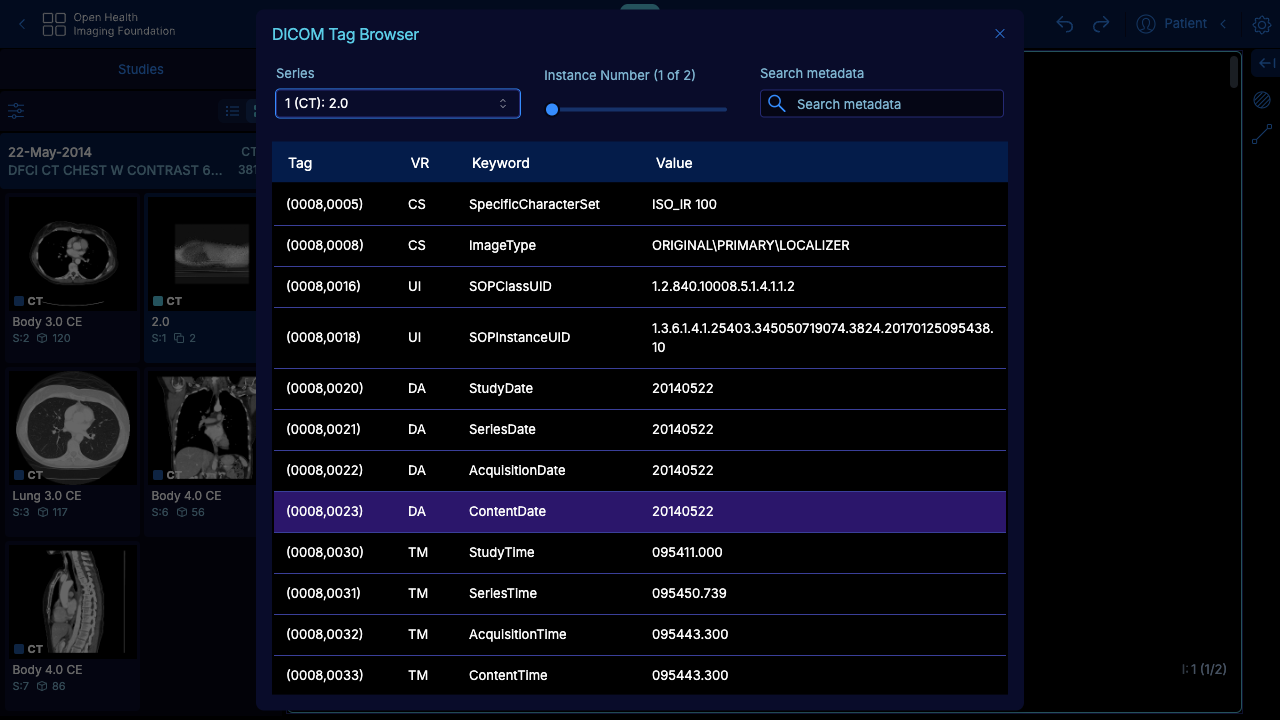
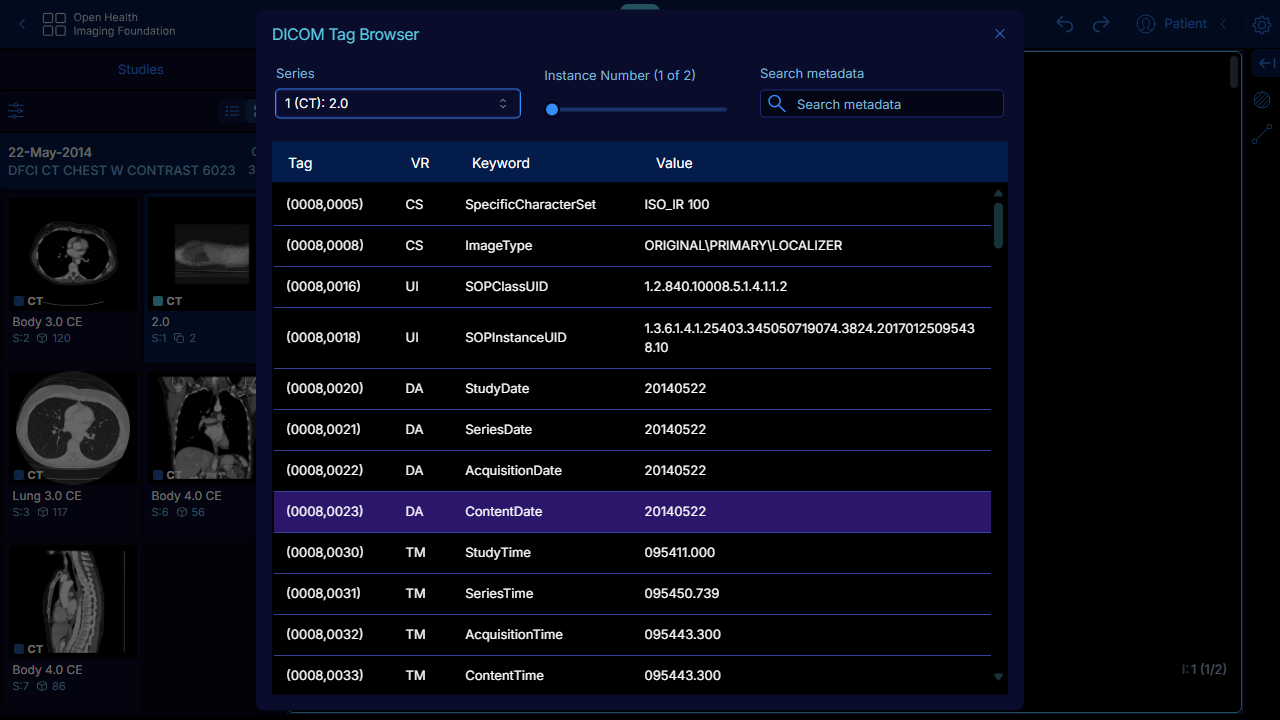
fix(UI): Restored the scroll bar OHIF L&F (#5202)

diff --git a/tests/Worklist.spec.ts b/tests/Worklist.spec.ts
@@ -1,0 +1,30 @@
+import { test } from 'playwright-test-coverage';
+import { checkForScreenshot, screenShotPaths } from './utils';
+
+test.beforeEach(async ({ page }) => {
+  await page.goto(`/?datasources=ohif`);
+  await page.waitForLoadState('domcontentloaded');
+  await page.waitForLoadState('networkidle');
+  await page.waitForTimeout(2000);
+});
+
+test('should render scroll bars with the correct look-and-feel', async ({ page }) => {
+  const studyRowHeader = await page.getByTestId(
+    '1.3.6.1.4.1.14519.5.2.1.5099.8010.217836670708542506360829799868'
+  );
+
+  await studyRowHeader.scrollIntoViewIfNeeded();
+  await studyRowHeader.click();
+
+  const expandedStudyRow = await page.getByTestId(
+    'studyRow-1.3.6.1.4.1.14519.5.2.1.5099.8010.217836670708542506360829799868'
+  );
+  await expandedStudyRow.scrollIntoViewIfNeeded();
+
+  await checkForScreenshot({
+    page,
+    locator: expandedStudyRow,
+    normalizedClip: { x: 0.97, y: 0.35, width: 0.03, height: 0.65 },
+    screenshotPath: screenShotPaths.workList.scrollBarRenderedProperly,
+  });
+});

diff --git a/tests/DicomTagBrowser.spec.ts b/tests/DicomTagBrowser.spec.ts
@@ -1,13 +1,11 @@
 import { test } from 'playwright-test-coverage';
 import { visitStudy, checkForScreenshot, screenShotPaths } from './utils';
 
-test.beforeEach(async ({ page }) => {
+test('should display the dicom tag browser', async ({ page }) => {
   const studyInstanceUID = '1.3.6.1.4.1.25403.345050719074.3824.20170125095438.5';
   const mode = 'viewer';
   await visitStudy(page, studyInstanceUID, mode, 2000);
-});
 
-test('should display the dicom tag browser', async ({ page }) => {
   await page.getByTestId('MoreTools-split-button-secondary').click();
   await page.getByTestId('TagBrowser').click();
   await checkForScreenshot(
@@ -15,4 +13,18 @@ test('should display the dicom tag browser', async ({ page }) => {
     page,
     screenShotPaths.dicomTagBrowser.dicomTagBrowserDisplayedCorrectly
   );
+});
+
+test('should render the scroll bar with the correct look-and-feel', async ({ page }) => {
+  const studyInstanceUID = '1.3.6.1.4.1.25403.345050719074.3824.20170125095438.5';
+  const mode = 'viewer';
+  await visitStudy(page, studyInstanceUID, mode, 2000);
+
+  await page.getByTestId('MoreTools-split-button-secondary').click();
+  await page.getByTestId('TagBrowser').click();
+  await checkForScreenshot({
+    page,
+    normalizedClip: { x: 0.77, y: 0.25, width: 0.03, height: 0.75 },
+    screenshotPath: screenShotPaths.dicomTagBrowser.scrollBarRenderedProperly,
+  });
 });

diff --git a/tests/utils/checkForScreenshot.ts b/tests/utils/checkForScreenshot.ts
@@ -15,19 +15,22 @@ type CheckForScreenshotProps = {
     width: number;
     height: number;
   };
+  fullPage?: boolean;
 };
 
 const _checkForScreenshot = async (props: CheckForScreenshotProps) => {
   const {
     page,
-    locator = page,
     screenshotPath,
     attempts = 10,
     delay = 500,
     maxDiffPixelRatio = 0.02,
     threshold = 0.05,
     normalizedClip,
+    fullPage = false,
   } = props;
+
+  let { locator = page } = props;
 
   await page.waitForLoadState('networkidle');
 
@@ -40,11 +43,16 @@ const _checkForScreenshot = async (props: CheckForScreenshotProps) => {
           boundingBox = { x: 0, y: 0, ...(await page.viewportSize()) };
         } else {
           boundingBox = await (locator as Locator).boundingBox();
+
+          // clip does not work for locator screen shots, so lets do some trickery
+          // set page as the locator here and below add the locator bounding box origin to the
+          // clip area
+          locator = page;
         }
 
         clip = {
-          x: normalizedClip.x * boundingBox.width,
-          y: normalizedClip.y * boundingBox.height,
+          x: boundingBox.x + normalizedClip.x * boundingBox.width,
+          y: boundingBox.y + normalizedClip.y * boundingBox.height,
           width: normalizedClip.width * boundingBox.width,
           height: normalizedClip.height * boundingBox.height,
         };
@@ -54,6 +62,7 @@ const _checkForScreenshot = async (props: CheckForScreenshotProps) => {
         maxDiffPixelRatio,
         threshold,
         clip,
+        fullPage,
       });
       return true;
     } catch (error) {

diff --git a/playwright.config.ts b/playwright.config.ts
@@ -24,6 +24,10 @@ export default defineConfig({
     video: 'on-first-retry',
     testIdAttribute: 'data-cy',
     actionTimeout: 10_000,
+    launchOptions: {
+      // do not hide the scrollbars so that we can assert their look-and-feel
+      ignoreDefaultArgs: ['--hide-scrollbars'],
+    },
   },
 
   projects: [

diff --git a/tests/utils/screenShotPaths.ts b/tests/utils/screenShotPaths.ts
@@ -60,6 +60,7 @@ const screenShotPaths = {
   },
   dicomTagBrowser: {
     dicomTagBrowserDisplayedCorrectly: 'dicomTagBrowserDisplayedCorrectly.png',
+    scrollBarRenderedProperly: 'scrollBarRenderedProperly.png',
   },
   rotateRight: {
     rotateRightDisplayedCorrectly: 'rotateRightDisplayedCorrectly.png',
@@ -177,6 +178,9 @@ const screenShotPaths = {
     threeSegOverlaysInOverlayMenu: 'threeSegOverlaysInOverlayMenu.png',
     overlaysDisplayed: 'overlaysDisplayed.png',
     overlaySEGsAndRTDisplayed: 'overlaySEGsAndRTDisplayed.png',
+  },
+  workList: {
+    scrollBarRenderedProperly: 'scrollBarRenderedProperly.png',
   },
 };
 

diff --git a/platform/ui-next/src/components/ThemeWrapper/ThemeWrapper.tsx b/platform/ui-next/src/components/ThemeWrapper/ThemeWrapper.tsx
@@ -1,4 +1,5 @@
 import React from 'react';
 import '../../tailwind.css';
+import '../../assets/styles.css';
 
 export const ThemeWrapper = ({ children }) => <React.Fragment>{children}</React.Fragment>;